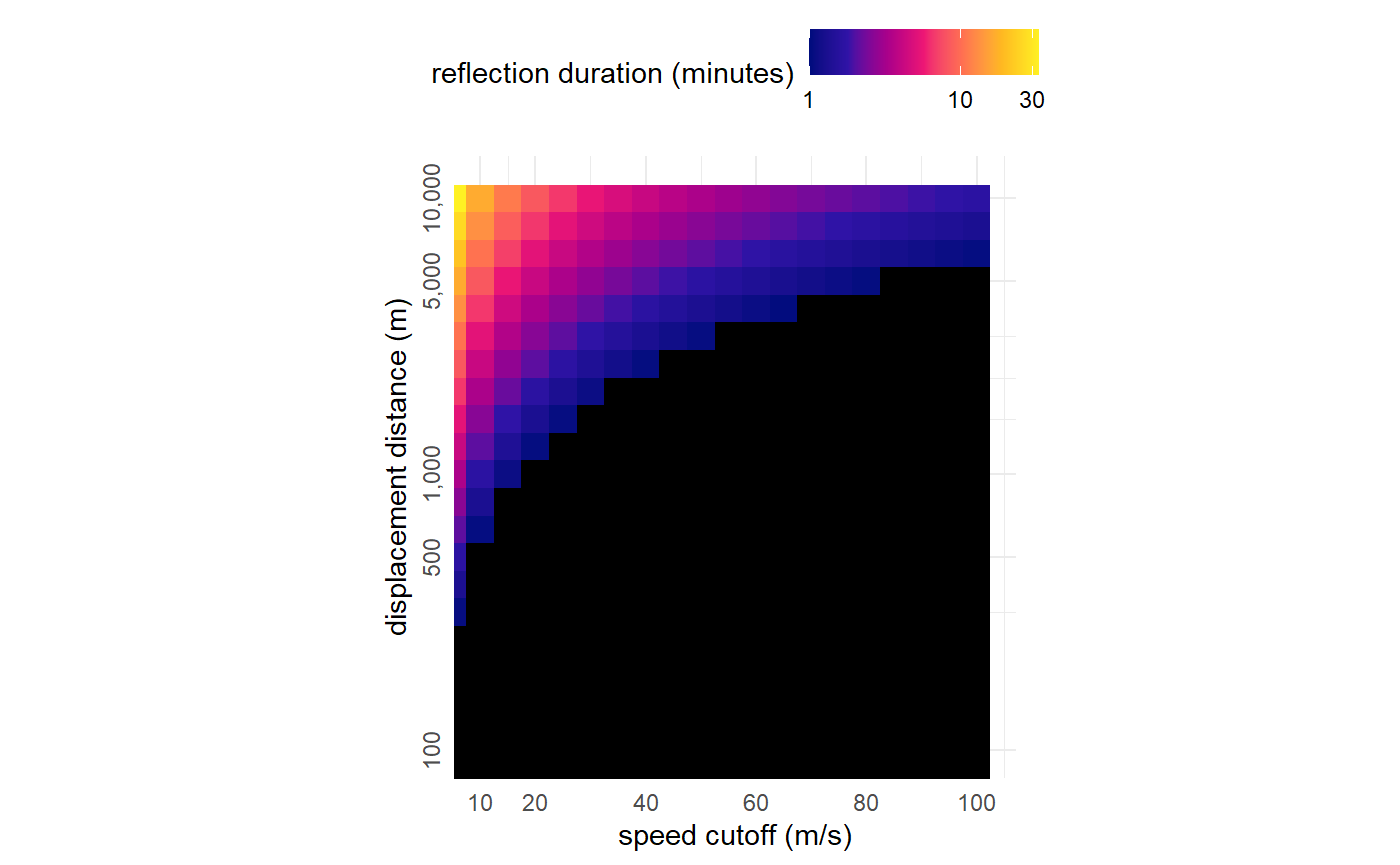
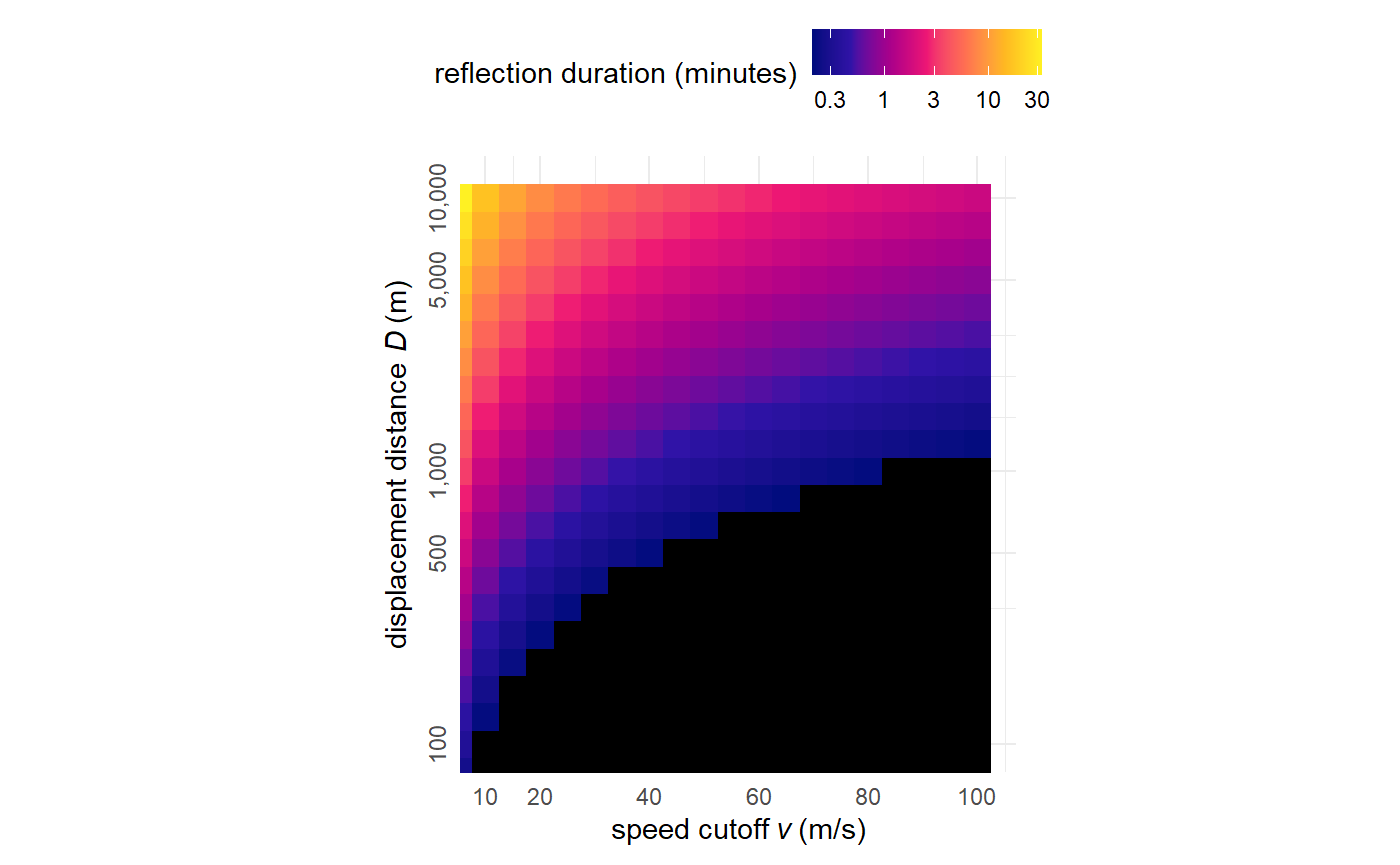
add WIP

Changed region(s): [[0.2764, 0.1873, 0.7064, 0.9988], [0.3071, 0.0624, 0.6143, 0.1249], [0.6757, 0.0936, 0.7679, 0.1249]]

diff --git a/docs/articles/removing_reflections.html b/docs/articles/removing_reflections.html
@@ -99,6 +99,7 @@
 <div id="next-reasonable-speed-method" class="section level2">
 <h2 class="hasAnchor">
 <a href="#next-reasonable-speed-method" class="anchor"></a>Next reasonable speed method</h2>
+<p>This method fails for any reflections of duration <span class="math inline">\(T\)</span>, where <span class="math inline">\(T = D/v\)</span>, where <span class="math inline">\(D\)</span> is the displacement of the reflected points from the anchor point, and <span class="math inline">\(v\)</span> is the speed cutoff used.</p>
 <div class="sourceCode" id="cb2"><html><body><pre class="r"><span class="co"># get displacement distance and speed cutoff combinations</span>
 <span class="no">displacement_distance</span> <span class="kw">&lt;-</span> <span class="fu"><a href="https://rdrr.io/r/base/c.html">c</a></span>(<span class="fl">10</span> ^ <span class="fu"><a href="https://rdrr.io/r/base/seq.html">seq</a></span>(<span class="fl">0</span>, <span class="fl">4</span>, <span class="fl">0.1</span>))
 <span class="no">speed_cutoffs</span> <span class="kw">&lt;-</span> <span class="fu"><a href="https://rdrr.io/r/base/seq.html">seq</a></span>(<span class="fl">0</span>, <span class="fl">100</span>, <span class="fl">5</span>)
@@ -112,8 +113,9 @@
                 <span class="kw">fill</span> <span class="kw">=</span> <span class="no">time_to_defeat</span> / <span class="fl">60</span>))+
   <span class="fu"><a href="https://ggplot2.tidyverse.org/reference/scale_gradient.html">scale_fill_gradientn</a></span>(<span class="kw">colours</span> <span class="kw">=</span> <span class="kw pkg">pals</span><span class="kw ns">::</span><span class="fu"><a href="https://rdrr.io/pkg/pals/man/kovesi.html">kovesi.linear_bmy_10_95_c78</a></span>(<span class="fl">7</span>),
                        <span class="kw">trans</span> <span class="kw">=</span> <span class="st">"log10"</span>,
-                       <span class="kw">limits</span> <span class="kw">=</span> <span class="fu"><a href="https://rdrr.io/r/base/c.html">c</a></span>(<span class="fl">1</span>, <span class="fl">NA</span>),
-                       <span class="kw">breaks</span> <span class="kw">=</span> <span class="fu"><a href="https://rdrr.io/r/base/c.html">c</a></span>(<span class="fl">10</span> ^ <span class="fu"><a href="https://rdrr.io/r/base/seq.html">seq</a></span>(<span class="fl">0</span>, <span class="fl">2</span>), <span class="fl">30</span>),
+                       <span class="kw">limits</span> <span class="kw">=</span> <span class="fu"><a href="https://rdrr.io/r/base/c.html">c</a></span>(<span class="fl">0.2</span>, <span class="fl">NA</span>),
+                       <span class="kw">breaks</span> <span class="kw">=</span> <span class="fu"><a href="https://rdrr.io/r/base/c.html">c</a></span>(<span class="fl">0.3</span>, <span class="fl">1</span>, <span class="fl">3</span>, <span class="fl">10</span>, <span class="fl">30</span>),
+                       <span class="kw">labels</span> <span class="kw">=</span> <span class="fu"><a href="https://rdrr.io/r/base/character.html">as.character</a></span>(<span class="fu"><a href="https://rdrr.io/r/base/c.html">c</a></span>(<span class="fl">0.3</span>, <span class="fl">1</span>, <span class="fl">3</span>, <span class="fl">10</span>, <span class="fl">30</span>)),
                        <span class="kw">na.value</span> <span class="kw">=</span> <span class="st">"black"</span>)+
   <span class="fu"><a href="https://ggplot2.tidyverse.org/reference/scale_continuous.html">scale_y_log10</a></span>(<span class="kw">labels</span> <span class="kw">=</span> <span class="kw pkg">scales</span><span class="kw ns">::</span><span class="no"><a href="https://scales.r-lib.org//reference/label_number.html">comma</a></span>,
                 <span class="kw">breaks</span> <span class="kw">=</span> <span class="fu"><a href="https://rdrr.io/r/base/c.html">c</a></span>(<span class="fl">10</span> ^ <span class="fu"><a href="https://rdrr.io/r/base/seq.html">seq</a></span>(<span class="fl">0</span>, <span class="fl">5</span>), <span class="fl">500</span>, <span class="fl">5000</span>))+
@@ -125,14 +127,52 @@
   <span class="fu"><a href="https://ggplot2.tidyverse.org/reference/theme.html">theme</a></span>(<span class="kw">axis.text.y</span> <span class="kw">=</span> <span class="fu"><a href="https://ggplot2.tidyverse.org/reference/element.html">element_text</a></span>(<span class="kw">angle</span> <span class="kw">=</span> <span class="fl">90</span>,
                                    <span class="kw">hjust</span> <span class="kw">=</span> <span class="fl">0.5</span>),
         <span class="kw">legend.position</span> <span class="kw">=</span> <span class="st">"top"</span>)+
-  <span class="fu"><a href="https://ggplot2.tidyverse.org/reference/labs.html">labs</a></span>(<span class="kw">x</span> <span class="kw">=</span> <span class="st">"speed cutoff (m/s)"</span>,
-       <span class="kw">y</span> <span class="kw">=</span> <span class="st">"displacement distance (m)"</span>,
+  <span class="fu"><a href="https://ggplot2.tidyverse.org/reference/labs.html">labs</a></span>(<span class="kw">x</span> <span class="kw">=</span> <span class="fu"><a href="https://rdrr.io/r/base/expression.html">expression</a></span>(<span class="st">"speed cutoff"</span> ~ <span class="fu"><a href="https://rdrr.io/r/grDevices/plotmath.html">italic</a></span>(<span class="st">"v"</span>) ~ <span class="st">"(m/s)"</span>),
+       <span class="kw">y</span> <span class="kw">=</span> <span class="fu"><a href="https://rdrr.io/r/base/expression.html">expression</a></span>(<span class="st">"displacement distance"</span> ~ <span class="fu"><a href="https://rdrr.io/r/grDevices/plotmath.html">italic</a></span>(<span class="st">"D"</span>) ~ <span class="st">"(m)"</span>),
        <span class="kw">fill</span> <span class="kw">=</span> <span class="st">"reflection duration (minutes)"</span>)</pre></body></html></div>
 <div class="figure">
-<img src="removing_reflections_files/figure-html/unnamed-chunk-3-1.png" alt="Figure showing the time (in minutes) required to beat the 'next reasonable speed' method, for various combinations of the reflection distance from the real positions, _D_ and the speed cutoff, _v_." width="700"><p class="caption">
-Figure showing the time (in minutes) required to beat the ‘next reasonable speed’ method, for various combinations of the reflection distance from the real positions, <em>D</em> and the speed cutoff, <em>v</em>.
+<img src="removing_reflections_files/figure-html/unnamed-chunk-3-1.png" alt="Figure showing the time (in minutes) required to beat the 'next reasonable speed' method, for various combinations of the reflection distance from the real positions, _D_ and the speed cutoff, _v_. Area in black represent combinations that fail" width="700"><p class="caption">
+Figure showing the time (in minutes) required to beat the ‘next reasonable speed’ method, for various combinations of the reflection distance from the real positions, <em>D</em> and the speed cutoff, <em>v</em>. Area in black represent combinations that fail
 </p>
 </div>
+</div>
+<div id="next-reasonable-distance-method" class="section level2">
+<h2 class="hasAnchor">
+<a href="#next-reasonable-distance-method" class="anchor"></a>Next reasonable distance method</h2>
+<div class="sourceCode" id="cb4"><html><body><pre class="r"><span class="co"># simulate some data of length 1000</span>
+<span class="fu"><a href="https://rdrr.io/r/base/library.html">library</a></span>(<span class="no">smoove</span>)
+<span class="no">nu</span> <span class="kw">&lt;-</span> <span class="fl">2</span>
+<span class="no">tau</span> <span class="kw">&lt;-</span> <span class="fl">5</span>
+<span class="no">dt</span> <span class="kw">&lt;-</span> <span class="fl">.1</span>
+<span class="no">ucvm1</span> <span class="kw">&lt;-</span> <span class="fu"><a href="https://rdrr.io/pkg/smoove/man/simulateUCVM.html">simulateUCVM</a></span>(<span class="kw">nu</span><span class="kw">=</span><span class="no">nu</span>, <span class="kw">tau</span><span class="kw">=</span><span class="no">tau</span>, <span class="kw">T.max</span> <span class="kw">=</span> <span class="fl">100</span>, <span class="kw">dt</span> <span class="kw">=</span> <span class="no">dt</span>)
+
+<span class="co"># add a reflection to x_max + x_max / 10, y_max + y_max / 10</span>
+<span class="no">data</span> <span class="kw">&lt;-</span> <span class="fu"><a href="https://tidyr.tidyverse.org/reference/reexports.html">as_tibble</a></span>(<span class="no">ucvm1</span>$<span class="no">XY</span>) <span class="kw">%&gt;%</span>
+  <span class="fu"><a href="https://dplyr.tidyverse.org/reference/mutate.html">mutate</a></span>(<span class="kw">time</span> <span class="kw">=</span> <span class="fu"><a href="https://rdrr.io/r/base/seq.html">seq_len</a></span>(<span class="fu"><a href="https://rdrr.io/r/base/nrow.html">nrow</a></span>(<span class="no">.</span>)))
+<span class="no">data</span> <span class="kw">&lt;-</span> <span class="no">data</span>[<span class="fu"><a href="https://rdrr.io/r/base/seq.html">seq_len</a></span>(<span class="fl">1000</span>), ]
+<span class="no">data</span>[(<span class="fu"><a href="https://rdrr.io/r/base/nrow.html">nrow</a></span>(<span class="no">data</span>) / <span class="fl">2</span>):(<span class="fu"><a href="https://rdrr.io/r/base/nrow.html">nrow</a></span>(<span class="no">data</span>) / <span class="fl">2</span>) + <span class="fl">50</span>, <span class="st">"x"</span>] <span class="kw">&lt;-</span> <span class="fu"><a href="https://rdrr.io/r/base/Extremes.html">max</a></span>(<span class="no">data</span>$<span class="no">x</span>) + (<span class="fu"><a href="https://rdrr.io/r/base/Extremes.html">max</a></span>(<span class="no">data</span>$<span class="no">x</span>) / <span class="fl">10</span>)
+<span class="no">data</span>[(<span class="fu"><a href="https://rdrr.io/r/base/nrow.html">nrow</a></span>(<span class="no">data</span>) / <span class="fl">2</span>):(<span class="fu"><a href="https://rdrr.io/r/base/nrow.html">nrow</a></span>(<span class="no">data</span>) / <span class="fl">2</span>) + <span class="fl">50</span>, <span class="st">"y"</span>] <span class="kw">&lt;-</span> <span class="fu"><a href="https://rdrr.io/r/base/Extremes.html">max</a></span>(<span class="no">data</span>$<span class="no">y</span>) + (<span class="fu"><a href="https://rdrr.io/r/base/Extremes.html">max</a></span>(<span class="no">data</span>$<span class="no">y</span>) / <span class="fl">10</span>)
+
+<span class="co"># get speed estimate</span>
+<span class="no">data</span>$<span class="no">speed</span> <span class="kw">&lt;-</span> <span class="kw pkg">atlastools</span><span class="kw ns">::</span><span class="fu"><a href="../reference/atl_get_speed.html">atl_get_speed</a></span>(<span class="no">data</span>)
+
+<span class="fu"><a href="https://ggplot2.tidyverse.org/reference/ggplot.html">ggplot</a></span>(<span class="no">data</span>)+
+  <span class="fu"><a href="https://ggplot2.tidyverse.org/reference/geom_point.html">geom_point</a></span>(<span class="fu"><a href="https://ggplot2.tidyverse.org/reference/aes.html">aes</a></span>(<span class="no">x</span>, <span class="no">y</span>,
+                <span class="kw">col</span> <span class="kw">=</span> <span class="no">speed</span>),
+             <span class="kw">shape</span> <span class="kw">=</span> <span class="fl">16</span>, <span class="kw">size</span> <span class="kw">=</span> <span class="fl">0.1</span>)+
+  <span class="fu"><a href="https://ggplot2.tidyverse.org/reference/geom_path.html">geom_path</a></span>(<span class="fu"><a href="https://ggplot2.tidyverse.org/reference/aes.html">aes</a></span>(<span class="no">x</span>, <span class="no">y</span>,
+                <span class="kw">col</span> <span class="kw">=</span> <span class="no">speed</span>),
+            <span class="kw">size</span> <span class="kw">=</span> <span class="fl">0.1</span>)+
+  <span class="fu"><a href="https://ggplot2.tidyverse.org/reference/scale_viridis.html">scale_colour_viridis_c</a></span>(<span class="kw">direction</span> <span class="kw">=</span> -<span class="fl">1</span>,
+                         <span class="kw">option</span> <span class="kw">=</span> <span class="st">"E"</span>)+
+  <span class="fu"><a href="https://ggplot2.tidyverse.org/reference/ggtheme.html">theme_void</a></span>()+
+  <span class="fu"><a href="https://ggplot2.tidyverse.org/reference/labs.html">labs</a></span>(<span class="kw">x</span> <span class="kw">=</span> <span class="kw">NULL</span>, <span class="kw">y</span> <span class="kw">=</span> <span class="kw">NULL</span>)</pre></body></html></div>
+<div class="figure">
+<img src="removing_reflections_files/figure-html/unnamed-chunk-4-1.png" alt="An example of a reflection, indicated by the dark line away from the real track shown in a lighter colour." width="700"><p class="caption">
+An example of a reflection, indicated by the dark line away from the real track shown in a lighter colour.
+</p>
+</div>
+<p>WIP.</p>
 </div>
 </div>
   </div>
